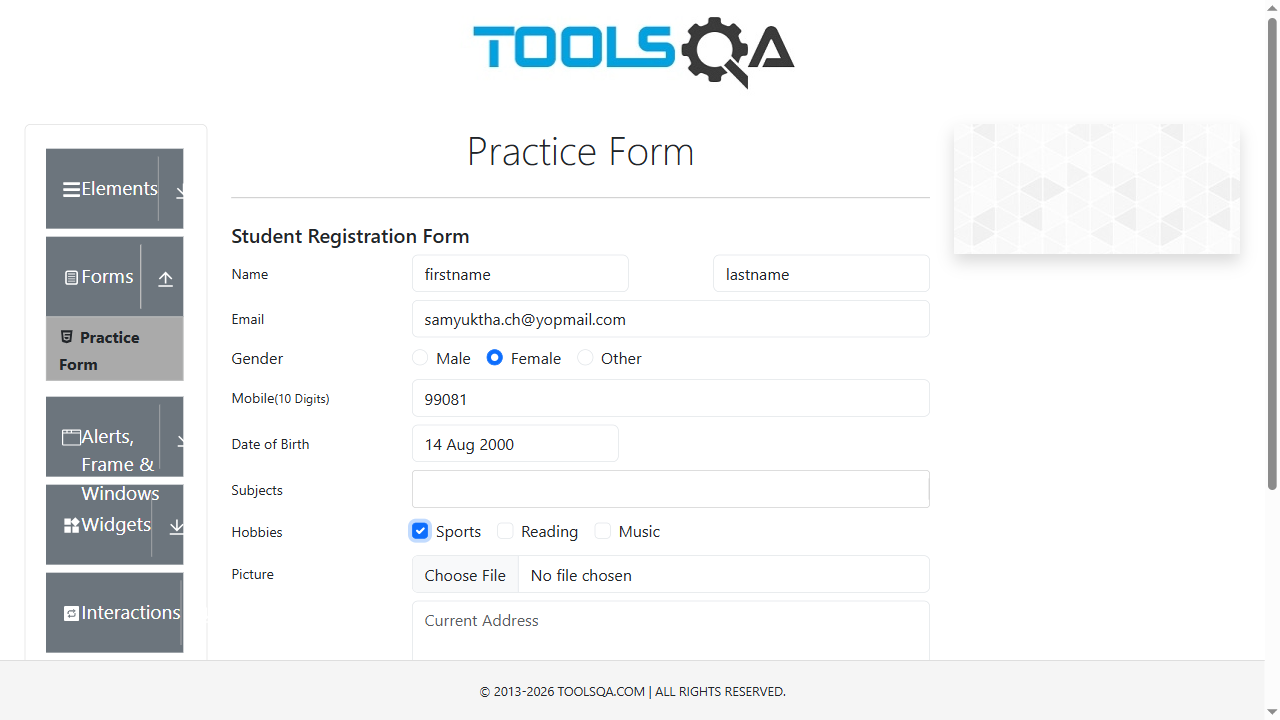
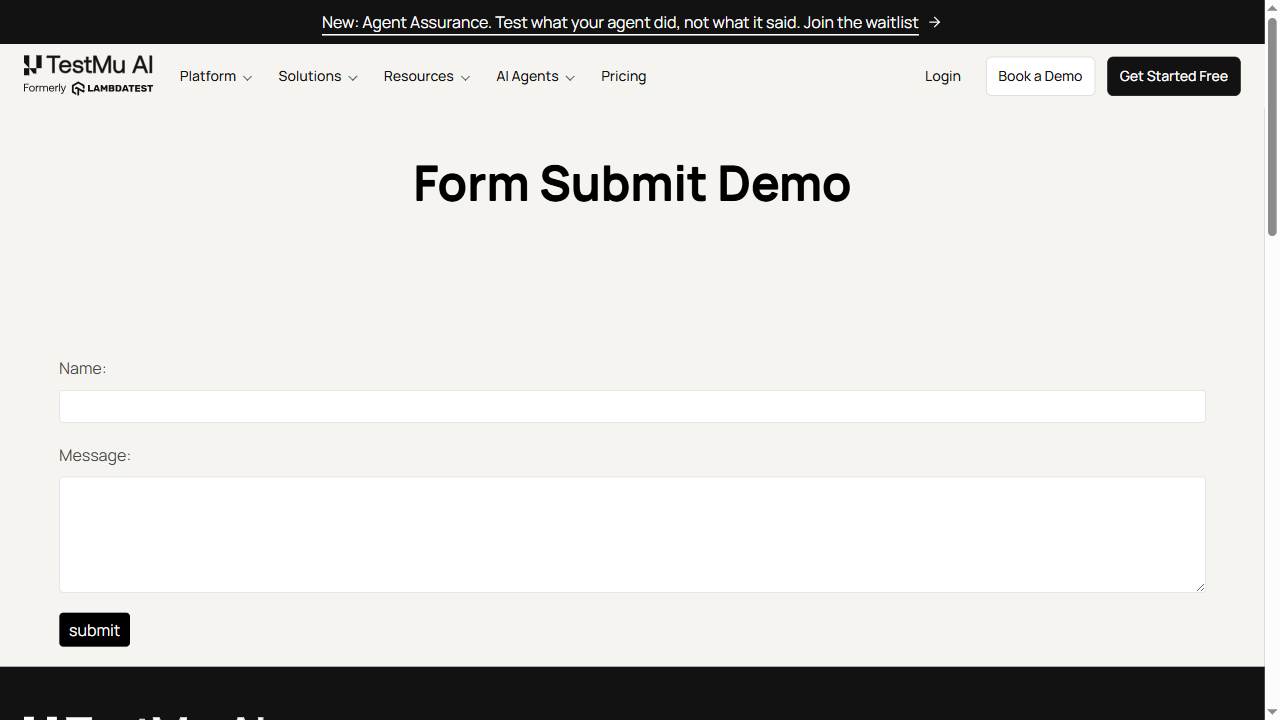
testdatapractice

diff --git a/tests/stepDefinitions/formsubmitsteps.js b/tests/stepDefinitions/formsubmitsteps.js
@@ -1,0 +1,24 @@
+const { FormSubmitPage } =  require('../pages/formsubmitpage');
+const { defineParameterType, When, Given,Then, And } = require("@cucumber/cucumber")
+const path = require("path") 
+const testdataPath = path.join(__dirname,'../../testdatajson.json')
+const testdata= require (testdataPath);
+
+When ('clicking formsubmit' ,{timeout: 100 * 1000}, async function (){
+    this.FormSubmitPage = new FormSubmitPage(this.page); 
+    await this.FormSubmitPage.details();
+
+});
+Then ('enter the {string}' ,{timeout: 100 * 1000},async function(name){
+    await this.FormSubmitPage.details1(testdata.Name);
+});
+
+Then ('entering {string}' ,{timeout: 100 * 1000},async function(message){
+    await this.FormSubmitPage.details2(testdata.Message);
+});
+Then ('click on submit',{timeout:100*1000},async function(){
+    await this.FormSubmitPage.details3();
+}
+
+)
+

diff --git a/tests/pages/formsubmitpage.js b/tests/pages/formsubmitpage.js
@@ -1,0 +1,27 @@
+const {test,expect} = require('@playwright/test');
+
+class FormSubmitPage{
+    constructor(submitpage){
+        this.submitpage = submitpage
+        this.formsubmit=submitpage.getByText('Ajax Form Submit')
+        this.name = submitpage.locator("#title")
+        this.message=submitpage.locator("#description")
+        this.submit=submitpage.locator("#btn-submit")
+
+    }
+    async details(){
+        await this.formsubmit.click()
+    }
+    async details1(name){
+        await this.name.fill(name)
+
+    }
+    async details2(message){
+        await this.message.fill(message)
+    }
+    async details3(){
+        await this.submit.click()
+    }
+
+}
+module.exports = { FormSubmitPage };

diff --git a/tests/hooks/hooks.js b/tests/hooks/hooks.js
@@ -7,7 +7,7 @@ Before(async function () {
     const browser = await playwright.chromium.launch({ headless: false, });
     const context = await browser.newContext();
     this.page =  await context.newPage();
-    this.page.goto('https://demoqa.com/automation-practice-form')
+    this.page.goto('https://www.testmuai.com/selenium-playground/')
   });
 
   AfterStep( async function ({result}) {
